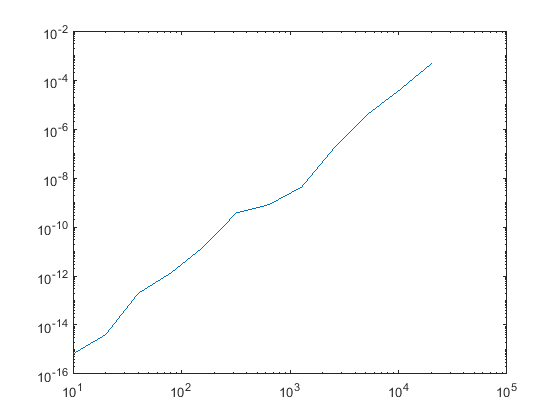
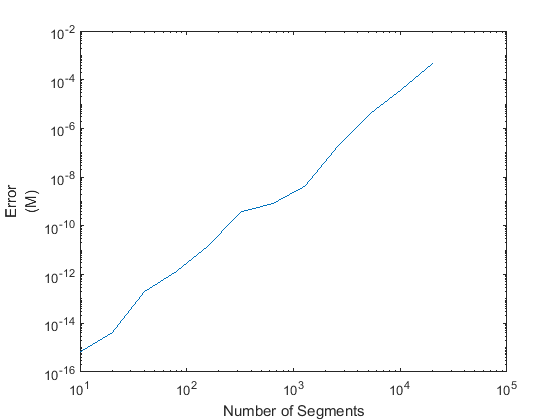
add labels and legend to plots

diff --git a/html/index.html b/html/index.html
@@ -120,6 +120,8 @@ y =
 noloadc = @(x) (noload(x) / (24*EI)) * x^2 * (x^2 - 4*L*x + 6*L^2);
 
 plotcompare(10, noload, noloadc);
+xlabel({'Position','(M)'});
+ylabel({'Beam Deflection','(M)'});
 </pre><img vspace="5" hspace="5" src="p1_01.png" alt=""> <pre class="codeinput"><h2>Part 3</h2>
 
 <span class="comment">% Rerun the calculation for a number of exponentially increasing n</span>
@@ -134,6 +136,8 @@ c = condcomp(ns);
 
 errortable(ns, e, c)
 loglog(ns, e);
+xlabel('Number of Segments');
+ylabel({'Error','(M)'});
 </pre><pre class="codeoutput">
 
 ans =
@@ -156,7 +160,7 @@ ans =
     10240    3.9358e-05    3.6176e+16
     20480    0.00049639    6.1571e+17
 
-</pre><img vspace="5" hspace="5" src="p1_02.png" alt=""> <pre class="codeinput"><h2><a href="proof4">Part 4</a></h2>
+</pre><img vspace="5" hspace="5" src="p1_02.png" alt=""> <pre class="codeinput"><h2>Part 4 - <a href="proof4">Link</a></h2>
 
 <span class="comment">% Prove that the given formula for a sinusoidal load properly</span>
 <span class="comment">% fulfills all requirements for a Euler Beam</span>
@@ -173,6 +177,8 @@ e = errorcomp(ns, sinload, sinloadc);
 
 errortable(ns, e, c)
 loglog(ns, e);
+xlabel('Number of Segments');
+ylabel({'Error','(M)'});
 </pre><pre class="codeoutput">
 ans =
 
@@ -194,8 +200,9 @@ ans =
     10240    0.00057853    3.6176e+16
     20480     0.0072957    6.1571e+17
 
-</pre><img vspace="5" hspace="5" src="p1_03.png" alt=""> <pre class="codeinput">hs = arrayfun(@(n) L/n, ns);
-loglog(ns, hs.*e);
+</pre><img vspace="5" hspace="5" src="p1_03.png" alt=""> <pre class="codeinput">loglog(ns, e/sinloadc(2));
+xlabel('Number of Segments');
+ylabel({'Error','(%)'});
 </pre><img vspace="5" hspace="5" src="p1_04.png" alt=""> <pre class="codeinput"><h2>Part 6</h2>
 
 <span class="comment">% Replace the sinusoidal load with a 70kg diver on the last 20cm</span>
@@ -213,6 +220,8 @@ y3 = eulermx(n, diverload);
 
 max_deflection = [y1(end) y2(end) y3(end)]'
 plot(x, y1, <span class="string">'r'</span>, x, y2, <span class="string">'g'</span>, x, y3, <span class="string">'k'</span>);
+xlabel({'Position','(M)'});
+ylabel({'Beam Deflection','(M)'});
 </pre><pre class="codeoutput">
 max_deflection =
 
@@ -242,6 +251,8 @@ c = condcomp(ns);
 errortable(ns, e, c)
 
 loglog(ns, e);
+xlabel('Number of Segments');
+ylabel({'Error','(M)'});
 </pre><pre class="codeoutput">
 
 ans =
@@ -270,8 +281,9 @@ ans =
     6.5536e+05     9.997e-12    3.0177e+20
     1.3107e+06    2.8024e-12    5.2493e+20
 
-</pre><img vspace="5" hspace="5" src="p1_06.png" alt=""> <pre class="codeinput">hs = arrayfun(@(n) L/n, ns);
-loglog(ns, hs.*e);
+</pre><img vspace="5" hspace="5" src="p1_06.png" alt=""> <pre class="codeinput">loglog(ns, e/sinloadbc(2));
+xlabel('Number of Segments');
+ylabel({'Error','(%)'});
 </pre><img vspace="5" hspace="5" src="p1_07.png" alt=""> <p class="footer"><br><a href="http://www.mathworks.com/products/matlab/">Published with MATLAB&reg; R2017a</a><br></p></div><!--
 ##### SOURCE BEGIN #####
 %%Setup

diff --git a/p1.m b/p1.m
@@ -37,6 +37,8 @@ y = eulermx(10, noload)
 noloadc = @(x) (noload(x) / (24*EI)) * x^2 * (x^2 - 4*L*x + 6*L^2);
 
 plotcompare(10, noload, noloadc);
+xlabel({'Position','(M)'});
+ylabel({'Beam Deflection','(M)'});
 
 %%
 %%Part 3
@@ -53,11 +55,13 @@ c = condcomp(ns);
 
 errortable(ns, e, c)
 loglog(ns, e);
+xlabel('Number of Segments');
+ylabel({'Error','(M)'});
 
 %%
 %%Part 4
 
-% Prove that the given formula for a sinusoidal load properly
+% Proove that the given formula for a sinusoidal load properly
 % fulfills all requirements for a Euler Beam
 
 %%
@@ -74,11 +78,14 @@ e = errorcomp(ns, sinload, sinloadc);
 
 errortable(ns, e, c)
 loglog(ns, e);
+xlabel('Number of Segments');
+ylabel({'Error','(M)'});
 
 %%
 
-hs = arrayfun(@(n) L/n, ns);
-loglog(ns, hs.*e);
+loglog(ns, e/sinloadc(2));
+xlabel('Number of Segments');
+ylabel({'Error','(%)'});
 
 %%
 %%Part 6
@@ -98,6 +105,9 @@ y3 = eulermx(n, diverload);
 
 max_deflection = [y1(end) y2(end) y3(end)]'
 plot(x, y1, 'r', x, y2, 'g', x, y3, 'k');
+xlabel({'Position','(M)'});
+ylabel({'Beam Deflection','(M)'});
+legend('no load','sinusoidal pile','70kg diver');
 
 %%
 %%Part 7
@@ -122,8 +132,11 @@ c = condcomp(ns);
 errortable(ns, e, c)
 
 loglog(ns, e);
+xlabel('Number of Segments');
+ylabel({'Error','(M)'});
 
 %%
 
-hs = arrayfun(@(n) L/n, ns);
-loglog(ns, hs.*e);
+loglog(ns, e/sinloadbc(2));
+xlabel('Number of Segments');
+ylabel({'Error','(%)'});
